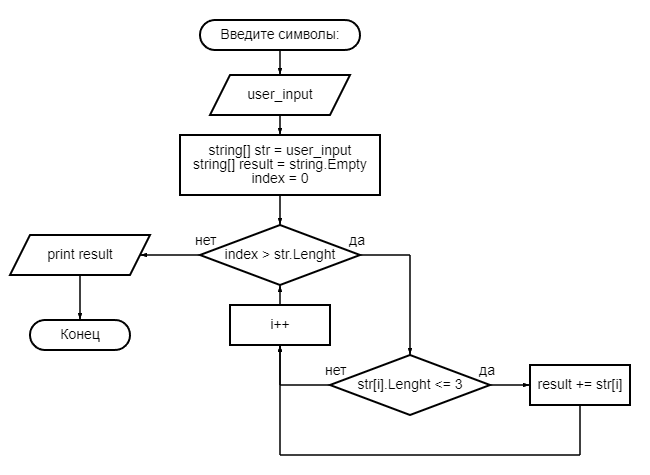
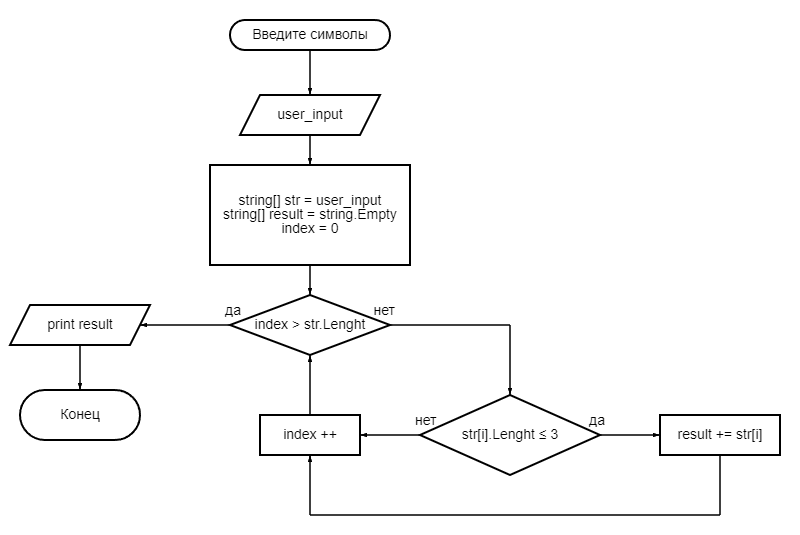
Step 5. ReadMe modified

diff --git a/ReadMe.md b/ReadMe.md
@@ -1,19 +1,59 @@
-## Инструкция к написанию кода программы, которая из имеющегося массива строк формирует новый массив из строк, длина которых меньше, либо равна 3 символам.
+# Инструкция к написанию кода программы, которая из имеющегося массива строк формирует новый массив из строк, длина которых меньше, либо равна 3 символам.
 
 ___
 
-* Шаг первый:
+Блок-схема выполнения программы
 
-Пригласить пользователя ко вводу символов разной длинны
+![Блок схема](/FinalControlWork/diagram.png)
 
-Сохранить введенные данные пользователем в массив, объявив перед этим разделитель в массиве
+### Шаг первый:
 
-* Шаг второй:
+Пригласить пользователя ко вводу символов разной длинны.
 
-С помощью цикла перебираем каждый элемент массива, и измеряем его длину.
+С помощью метода **Console.WriteLine** сообщаем пользователю о названии программы и необходимых действиях.
 
-Если длинна его меньше или равна 3, добавляем элемент с нужным индексом в новый массив.
+> Console.WriteLine("Программа, которая выводит значения меньше или равное 3.");
+Console.Write("Введите через пробел значения: ");
 
-* Шаг третий:
+Вывод консоли:
 
-Выводим результат массива!
+![Подсказка](/images/promt1.png)
+
+Затем нам необходимо объявить разделитель массива. Это можно сделать следующим образом :
+> char[] separator = new char[] {' '};
+
+В данном случае в качестве разделителя будет приниматься "пробел", ведь  мы попросили пользователя вводить данные через пробел.
+
+### Шаг второй:
+
+Нам необходимо сохранить данные, которые ввел пользователь. Для этого объявляем новую переменную с типом строк
+> string[] st1 = Console.ReadLine()
+
+И в этой же строке необходимо указать разделитель с помощью метода **Split**, и чтобы ислючить момент, что пользователь может дважды нажать пробел, добавим игнорировать пустые отсупы.
+Строка преобретет следующий вид:
+> string[] st1 = Console.ReadLine()!.Split(separator, StringSplitOptions.RemoveEmptyEntries);
+
+### Шаг третий:
+
+С помощью цикла **for** перебираем каждый элемент массива
+
+> for (int i = 0; i < str.Length; i++)
+
+В теле цикла пропишем условие, при котором будут сравниваться значения массива. Если таковые подходят под наши условия, то они будут сразу выводиться в консоль.
+
+Вот как это будет выглядеть:
+
+>     for (int i = 0; i < st1.Length; i++) {
+>      
+>           if (str[i].Length <= 3) Console.Write($" {str[i]},");
+>
+>     }
+
+Пояснение:
+Цикл берет значение с индексом 0, измеряет его значение, если значение равно или меньше 3, то значение выводится в консоль.
+
+Для примера введем значения, 0 1 22 333 4444 55555
+
+Результат: 
+
+![Подсказка 2](/images/promt2.png)
